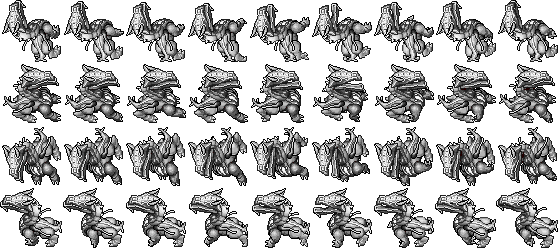
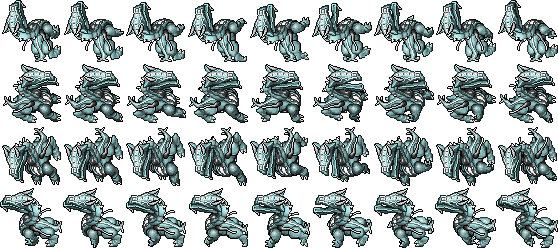
fix: outfits 947 de The First Dragon renderizavam template cinza
Sheets re-geradas com cores e lookAddons oficiais do Canary:
the-first-dragon (94/80/101/79+3), tazhadur (24/119/19/95+3),
kalyassa (56/113/19/95+3), gelidrazah-the-frozen (19/11/0/0+3),
ice-dragon (0/9/0/0) e dragon-warden (5/5/8/8). Entradas novas em
CANARY_COLORS/CANARY_ADDONS do colorize_monsters_canary.py.

Generated with [Devin](https://devin.ai)

diff --git a/tibia-idle/game/index.html b/tibia-idle/game/index.html
@@ -664,7 +664,7 @@
 <script src="js/runedata.js"></script>
 <script src="js/monstermovedata.js"></script>
 <script src="js/monsterdata.js?v=drakens-loot-v1"></script>
-<script src="js/mobsheetdata.js?v=monk-apparition-v1"></script>
+<script src="js/mobsheetdata.js?v=first-dragon-colors-v1"></script>
 <script src="js/idleanimdata.js?v=sex-looktype-v2"></script>
 <script src="js/creatureanchordata.js?v=arean-outfits-v1"></script>
 <script src="js/areadata.js?v=wave-origin-ahead-v2"></script>

diff --git a/tibia-idle/tools/colorize_monsters_canary.py b/tibia-idle/tools/colorize_monsters_canary.py
@@ -140,6 +140,13 @@ CANARY_COLORS = {
     "sorcerer-s-apparition": (95, 114, 52, 76),
     "druid-s-apparition": (114, 48, 114, 95),
     "monk-s-apparition": (114, 48, 114, 95),
+    # --- the first dragon (looktype 947 colorizável; addons 3 = cristais)
+    "the-first-dragon": (94, 80, 101, 79),  # boss oficial
+    "tazhadur":       (24, 119, 19, 95),  # verde oficial
+    "kalyassa":       (56, 113, 19, 95),  # vermelha oficial
+    "gelidrazah-the-frozen": (19, 11, 0, 0),  # azul-gelo oficial
+    "ice-dragon":     (0, 9, 0, 0),       # gelo oficial (sem addon)
+    "dragon-warden":  (5, 5, 8, 8),       # dourado oficial (sem addon)
     # Rage Squid / Squid Warden compartilham looktype 1059. As quatro cores
     # abaixo são as definidas pelo Canary; a máscara do DAT separa cérebro,
     # corpo e tentáculos. Não aplicar filtro CSS no renderer.
@@ -230,7 +237,9 @@ FORCE_REGEN = {"amazon", "valkyrie", "naga-warrior", "naga-archer",
                "acolyte-of-the-cult", "adept-of-the-cult", "enlightened-of-the-cult"}
 
 # lookAddons oficial. Scout usa addon 2; Assassin addon 1; Vizier sem addon.
-CANARY_ADDONS = {"pirat-bombardier": 2, "pirat-cutthroat": 1, "pirat-mate": 3,
+CANARY_ADDONS = {"the-first-dragon": 3, "tazhadur": 3, "kalyassa": 3,
+    "gelidrazah-the-frozen": 3,
+    "pirat-bombardier": 2, "pirat-cutthroat": 1, "pirat-mate": 3,
                  "pirat-scoundrel": 0, "pirat-artillerist": 2, "elite-pirat": 0,
                  "cobra-vizier": 0, "cobra-scout": 2, "cobra-assassin": 1,
                   "fury": 1,

diff --git a/tibia-idle/PATCH_NOTES.md b/tibia-idle/PATCH_NOTES.md
@@ -1885,3 +1885,14 @@ hunts 400+ recém-lançados e o boss final, com recompensas oficiais.
   (adminGrant) e `enforceAuthoritativeProgress` restauram chaves protegidas
   ausentes (skills/exp/ml/gold/kills/...) a partir do banco — payload
   parcial ou `item.p` intermediário nunca mais remove progresso.
+
+- **The First Dragon — outfits sem cor corrigidos**: os 6 monstros com
+  looktype 947 (colorizável) renderizavam o template cinza — sheets
+  re-geradas com cores e addons oficiais do Canary: The First Dragon
+  (94/80/101/79, addons 3), Tazhadur (24/119/19/95, addons 3), Kalyassa
+  (56/113/19/95, addons 3), Gelidrazah the Frozen (19/11/0/0, addons 3),
+  Ice Dragon (0/9/0/0) e Dragon Warden (5/5/8/8). Zorvorax (928),
+  Unbeatable Dragon/Dragon Servant (39), Dragon Essence (248),
+  Fallen Challenger/Haunted Dragon (231), Somewhat Beatable (34),
+  Spirit of Fertility (11), Angry Plant (120) e Dragon Wrath (351)
+  conferidos — já estavam com as cores próprias do sprite.
